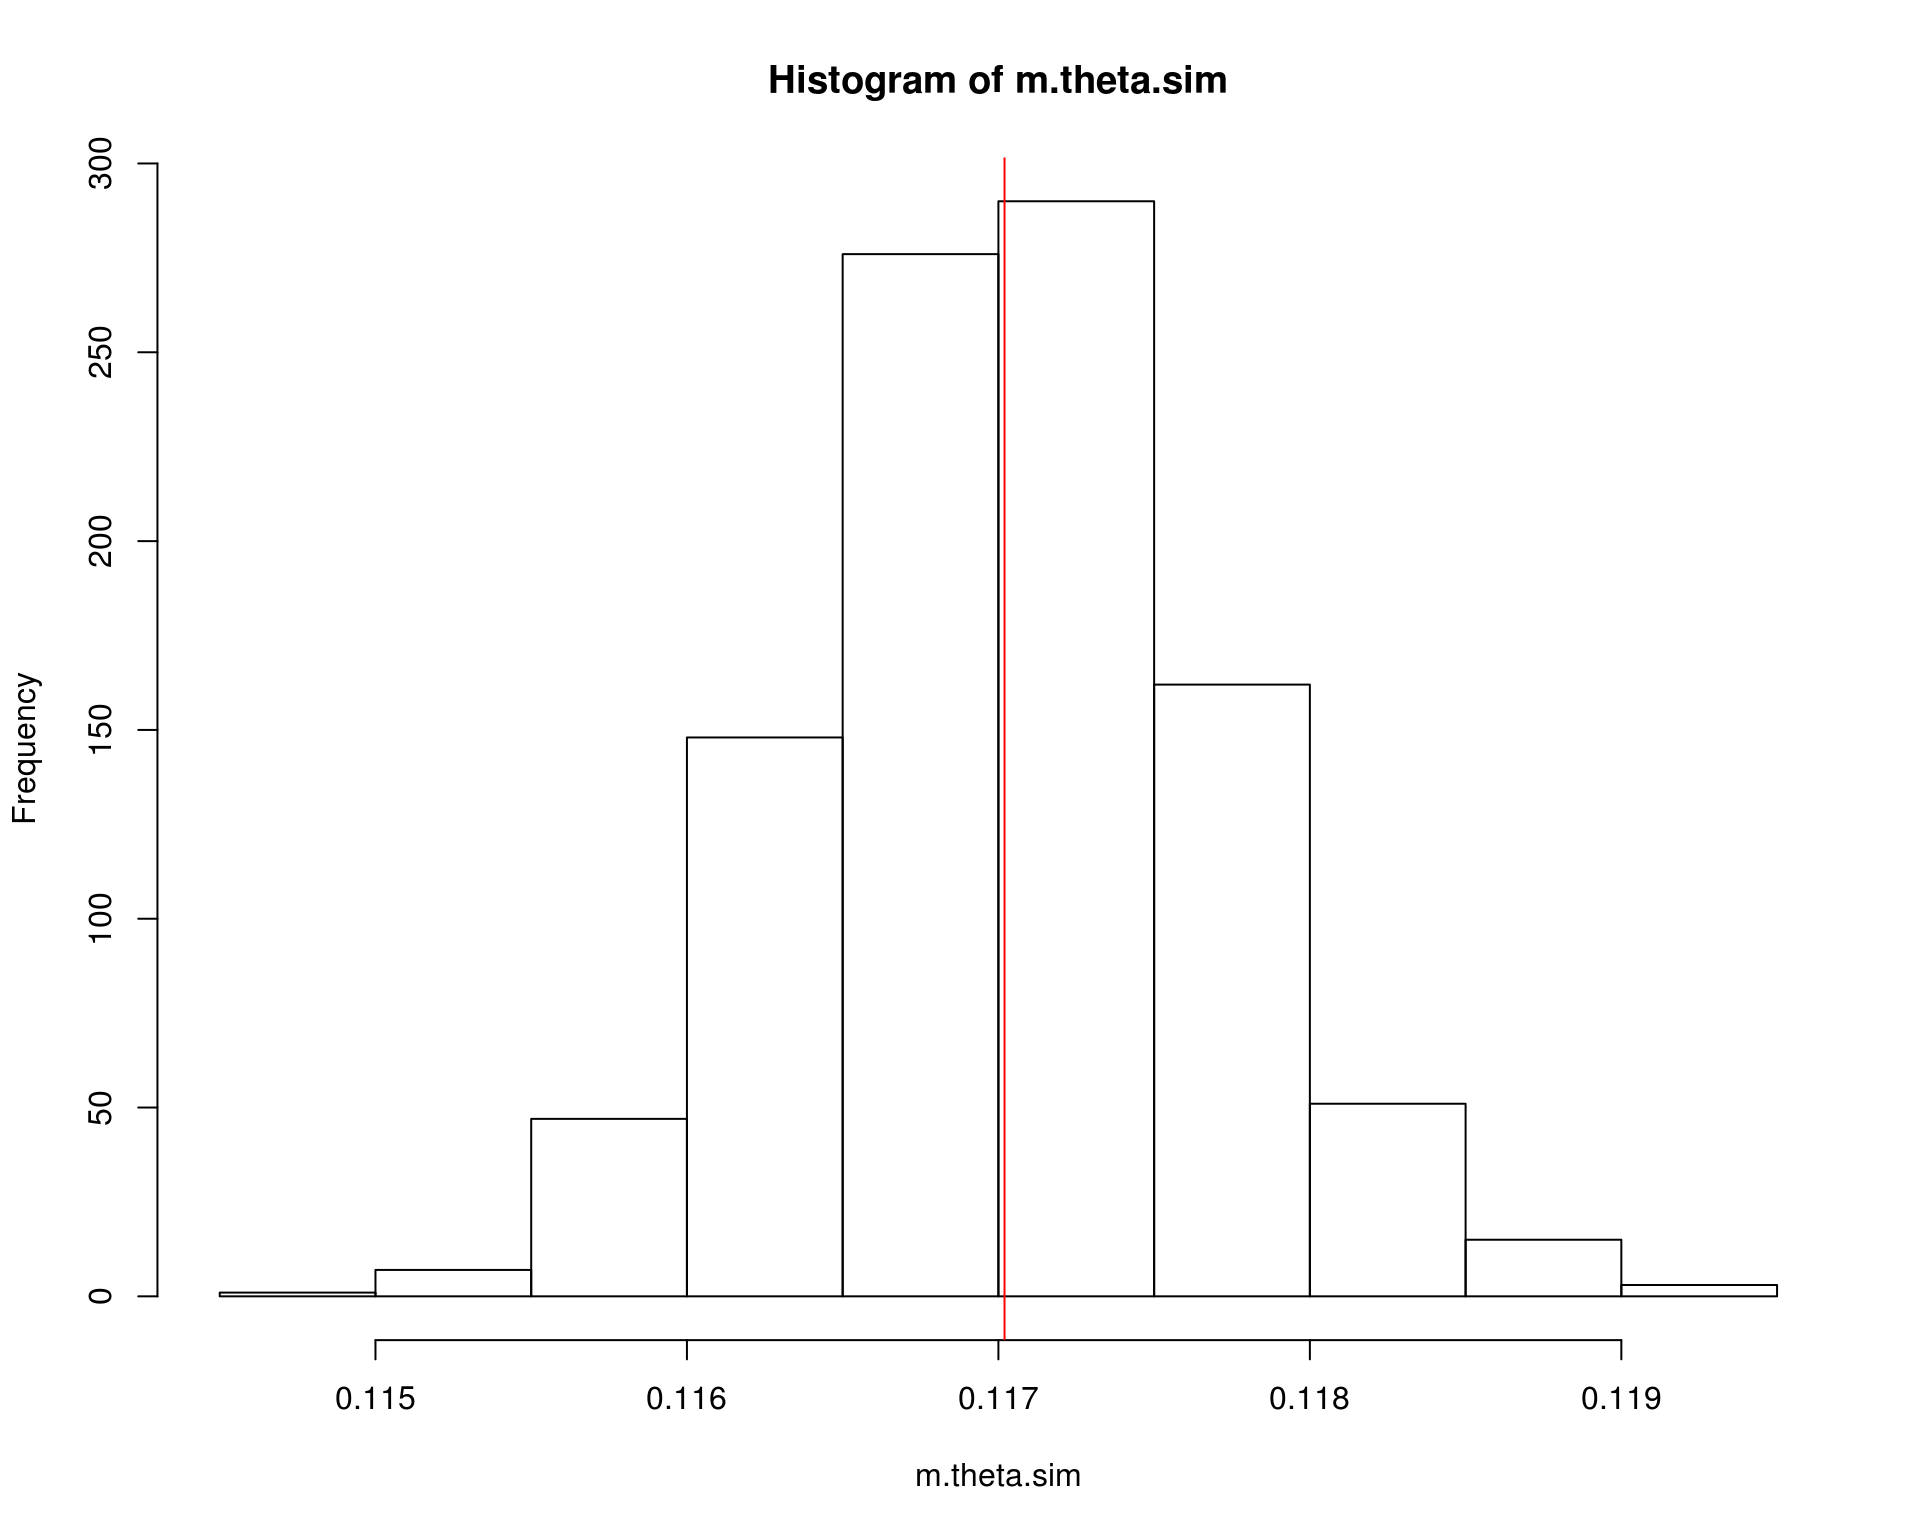
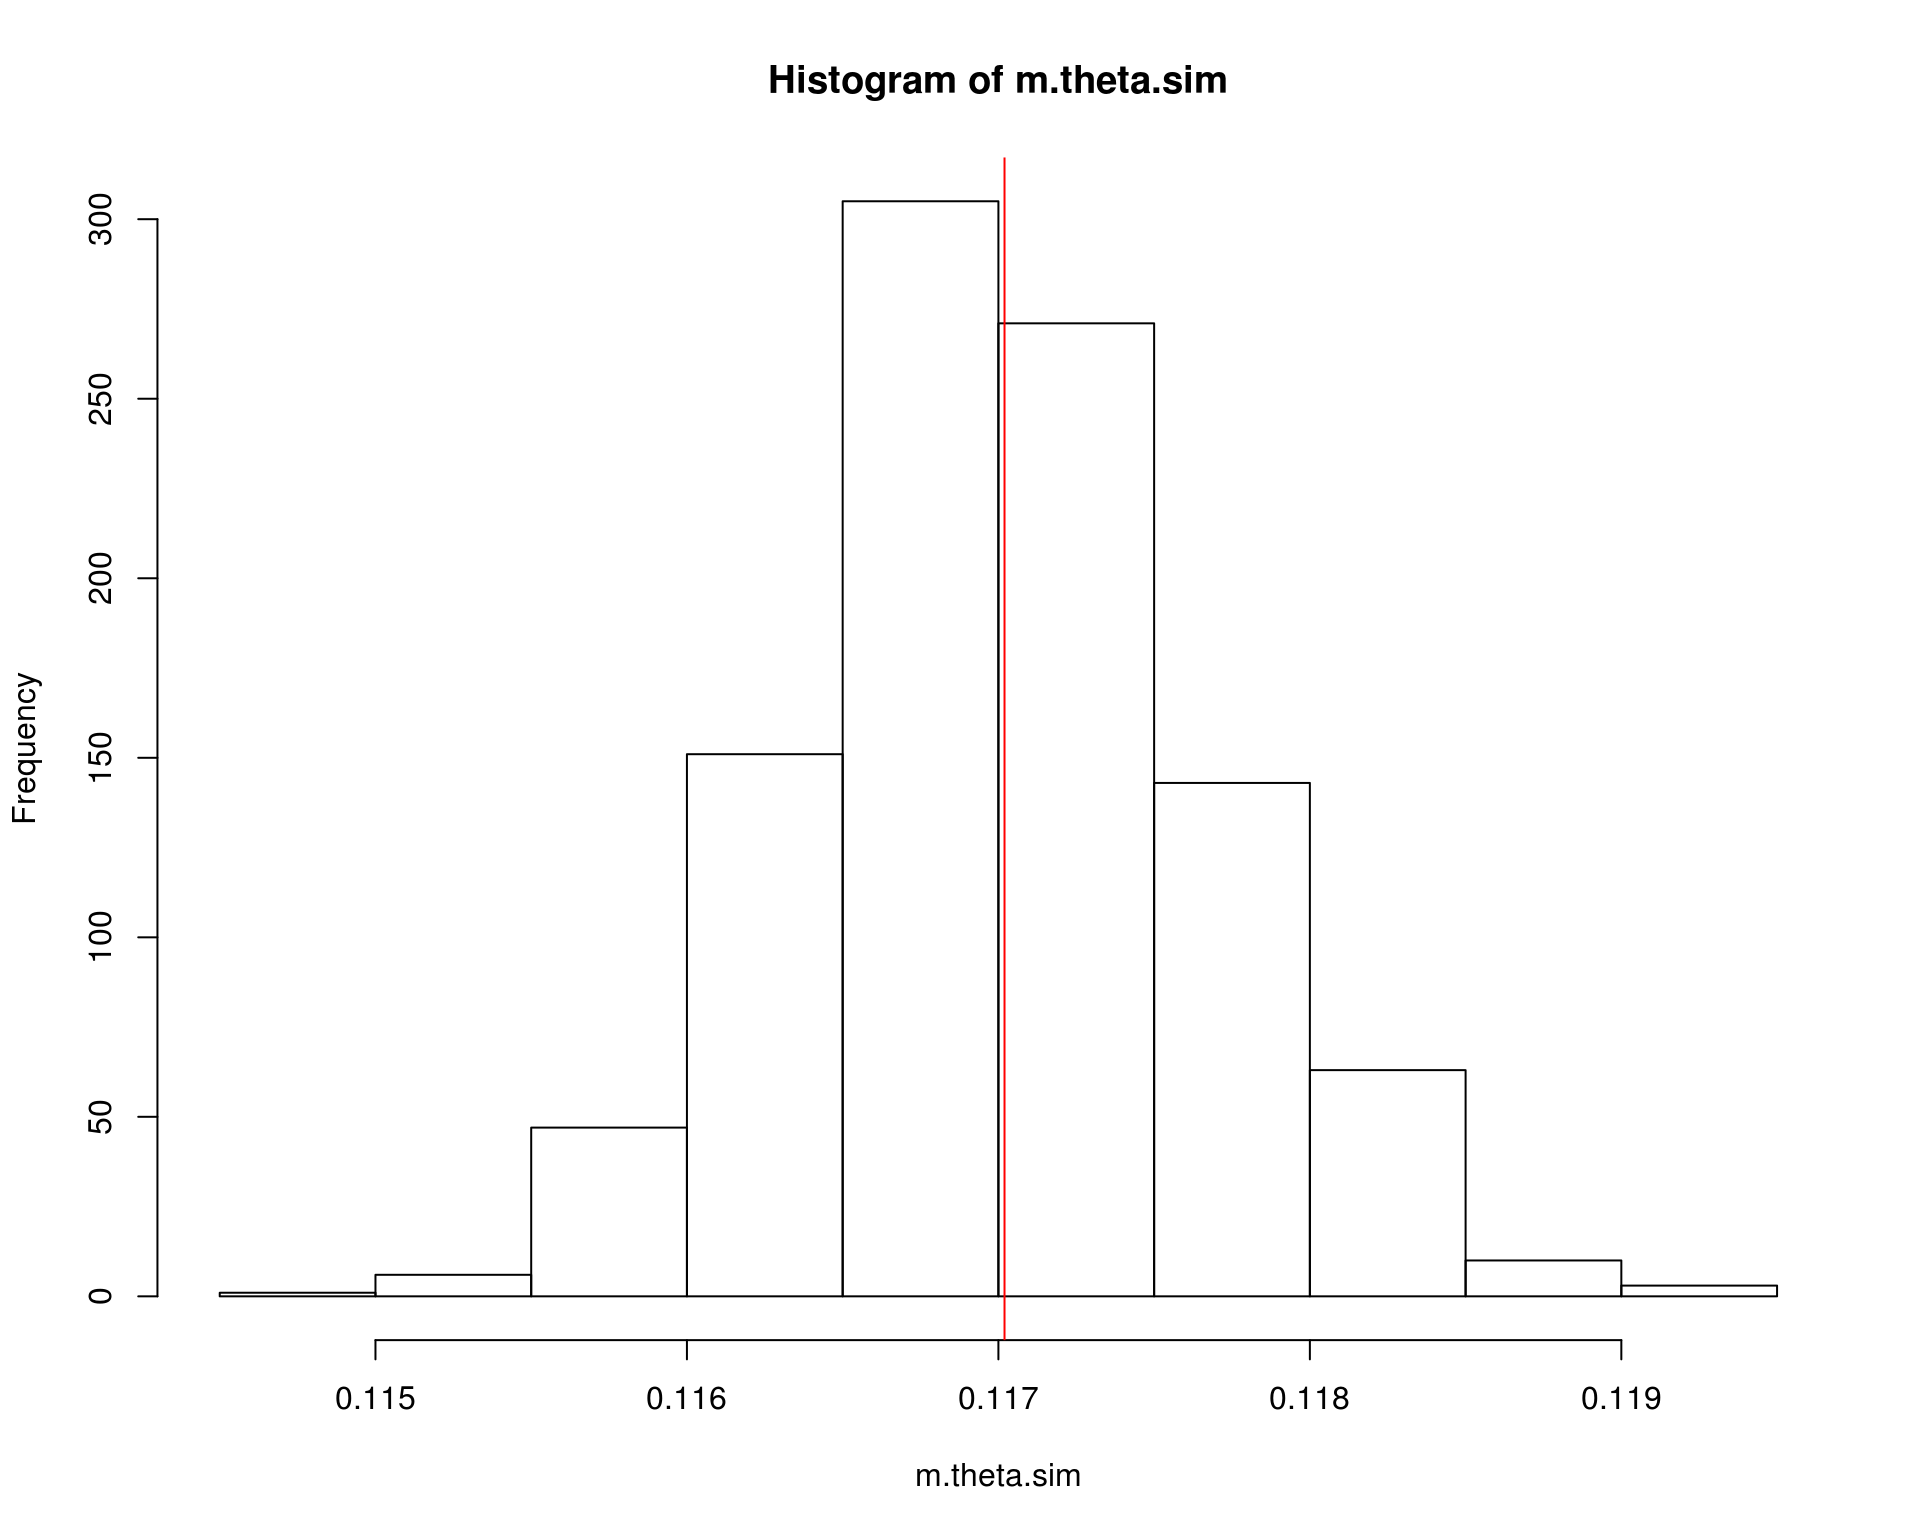
The site is alive.

diff --git a/MC_intro.html b/MC_intro.html
@@ -553,7 +553,7 @@ P(\lim_{n \to \infty} |\bar{X}_n - \mu| &lt; \epsilon) = 1
 <a class="sourceLine" id="cb1-5" title="5">theta.hat &lt;-<span class="st"> </span><span class="kw">exp</span>(<span class="op">-</span>x)</a>
 <a class="sourceLine" id="cb1-6" title="6"><span class="co">## Calcula a média</span></a>
 <a class="sourceLine" id="cb1-7" title="7">(m.theta.hat &lt;-<span class="st"> </span><span class="kw">sum</span>(theta.hat)<span class="op">/</span>m)</a>
-<a class="sourceLine" id="cb1-8" title="8"><span class="co"># [1] 0.6314137</span></a></code></pre></div>
+<a class="sourceLine" id="cb1-8" title="8"><span class="co"># [1] 0.6299018</span></a></code></pre></div>
 <p>Nesse caso, podemos obter a solução analítica e integração numérica no R para comparar as estimativas</p>
 <div class="sourceCode" id="cb2"><pre class="sourceCode r"><code class="sourceCode r"><a class="sourceLine" id="cb2-1" title="1"><span class="co">## Solução analítica</span></a>
 <a class="sourceLine" id="cb2-2" title="2">(theta &lt;-<span class="st"> </span><span class="dv">1</span> <span class="op">-</span><span class="st"> </span><span class="kw">exp</span>(<span class="op">-</span><span class="dv">1</span>))</a>
@@ -593,7 +593,7 @@ P(\lim_{n \to \infty} |\bar{X}_n - \mu| &lt; \epsilon) = 1
 <a class="sourceLine" id="cb3-6" title="6">theta.hat &lt;-<span class="st"> </span><span class="kw">exp</span>(<span class="op">-</span>x)</a>
 <a class="sourceLine" id="cb3-7" title="7"><span class="co">## Calcula a média * (b - a)</span></a>
 <a class="sourceLine" id="cb3-8" title="8">(m.theta.hat &lt;-<span class="st"> </span>(<span class="kw">sum</span>(theta.hat)<span class="op">/</span>m) <span class="op">*</span><span class="st"> </span>(b <span class="op">-</span><span class="st"> </span>a))</a>
-<a class="sourceLine" id="cb3-9" title="9"><span class="co"># [1] 0.1175212</span></a></code></pre></div>
+<a class="sourceLine" id="cb3-9" title="9"><span class="co"># [1] 0.1179183</span></a></code></pre></div>
 <p>Nesse caso, podemos obter a solução analítica e integração numérica no R para comparar as estimativas</p>
 <div class="sourceCode" id="cb4"><pre class="sourceCode r"><code class="sourceCode r"><a class="sourceLine" id="cb4-1" title="1"><span class="co">## Solução analítica</span></a>
 <a class="sourceLine" id="cb4-2" title="2">(theta &lt;-<span class="st"> </span><span class="kw">exp</span>(<span class="op">-</span><span class="dv">2</span>) <span class="op">-</span><span class="st"> </span><span class="kw">exp</span>(<span class="op">-</span><span class="dv">4</span>))</a>
@@ -614,7 +614,7 @@ P[X&gt;2] = \int_2^{\infty} e^{-x} dx
 <a class="sourceLine" id="cb5-5" title="5">theta.hat2 &lt;-<span class="st"> </span><span class="kw">exp</span>(<span class="op">-</span>x2)</a>
 <a class="sourceLine" id="cb5-6" title="6"><span class="co">## Calcula a média * (b - a)</span></a>
 <a class="sourceLine" id="cb5-7" title="7">(m.theta.hat2 &lt;-<span class="st"> </span>(<span class="kw">sum</span>(theta.hat2)<span class="op">/</span>m) <span class="op">*</span><span class="st"> </span>(<span class="fl">1e5</span> <span class="op">-</span><span class="st"> </span><span class="dv">2</span>))</a>
-<a class="sourceLine" id="cb5-8" title="8"><span class="co"># [1] 1.622695e-06</span></a>
+<a class="sourceLine" id="cb5-8" title="8"><span class="co"># [1] 1.01657e-28</span></a>
 <a class="sourceLine" id="cb5-9" title="9"><span class="co">## Solução analítica</span></a>
 <a class="sourceLine" id="cb5-10" title="10">(theta2 &lt;-<span class="st"> </span><span class="kw">exp</span>(<span class="op">-</span><span class="dv">2</span>) <span class="op">-</span><span class="st"> </span><span class="kw">exp</span>(<span class="op">-</span><span class="fl">1e5</span>))</a>
 <a class="sourceLine" id="cb5-11" title="11"><span class="co"># [1] 0.1353353</span></a>
@@ -635,17 +635,17 @@ P[X&gt;2] = \int_2^{\infty} e^{-x} dx
 \]</span></p>
 <p>Seguindo o exemplo anterior, vimos que a estimativa da integral é</p>
 <div class="sourceCode" id="cb6"><pre class="sourceCode r"><code class="sourceCode r"><a class="sourceLine" id="cb6-1" title="1">m.theta.hat</a>
-<a class="sourceLine" id="cb6-2" title="2"><span class="co"># [1] 0.1175212</span></a></code></pre></div>
+<a class="sourceLine" id="cb6-2" title="2"><span class="co"># [1] 0.1179183</span></a></code></pre></div>
 <p>Mas veja que existe uma distribuição de valores para compor esta estimativa média</p>
 <div class="sourceCode" id="cb7"><pre class="sourceCode r"><code class="sourceCode r"><a class="sourceLine" id="cb7-1" title="1"><span class="kw">hist</span>(theta.hat); <span class="kw">abline</span>(<span class="dt">v =</span> theta, <span class="dt">col =</span> <span class="dv">2</span>)</a></code></pre></div>
 <p><img src="figures/MC_intro/unnamed-chunk-9-1.png" width="80%" style="display: block; margin: auto;" /></p>
 <p>A variância relacionada ao estimador pode então ser calculada como</p>
 <div class="sourceCode" id="cb8"><pre class="sourceCode r"><code class="sourceCode r"><a class="sourceLine" id="cb8-1" title="1"><span class="co">## Variancia</span></a>
 <a class="sourceLine" id="cb8-2" title="2">(v.theta.hat &lt;-<span class="st"> </span><span class="kw">sum</span>((theta.hat <span class="op">-</span><span class="st"> </span>m.theta.hat)<span class="op">^</span><span class="dv">2</span>)<span class="op">/</span>m<span class="op">^</span><span class="dv">2</span>)</a>
-<a class="sourceLine" id="cb8-3" title="3"><span class="co"># [1] 4.529591e-07</span></a>
+<a class="sourceLine" id="cb8-3" title="3"><span class="co"># [1] 4.561051e-07</span></a>
 <a class="sourceLine" id="cb8-4" title="4"><span class="co">## Erro padrão</span></a>
 <a class="sourceLine" id="cb8-5" title="5">(se.theta.hat &lt;-<span class="st"> </span><span class="kw">sqrt</span>(v.theta.hat))</a>
-<a class="sourceLine" id="cb8-6" title="6"><span class="co"># [1] 0.0006730223</span></a></code></pre></div>
+<a class="sourceLine" id="cb8-6" title="6"><span class="co"># [1] 0.0006753555</span></a></code></pre></div>
 <p>Pelo Teorema do Limite Central, temos que</p>
 <p><span class="math display">\[
 \frac{\hat\theta - \text{E}(\hat\theta)}{\sqrt{\hat{V}(\hat\theta)}}
@@ -659,10 +659,10 @@ P[X&gt;2] = \int_2^{\infty} e^{-x} dx
 <p>Com esse resultado, podemos inclusive fornecer um intervalo de confiança associado à nossa estimativa</p>
 <div class="sourceCode" id="cb10"><pre class="sourceCode r"><code class="sourceCode r"><a class="sourceLine" id="cb10-1" title="1"><span class="co">## Media e veriancia</span></a>
 <a class="sourceLine" id="cb10-2" title="2"><span class="kw">c</span>(m.theta.hat, v.theta.hat)</a>
-<a class="sourceLine" id="cb10-3" title="3"><span class="co"># [1] 1.175212e-01 4.529591e-07</span></a>
+<a class="sourceLine" id="cb10-3" title="3"><span class="co"># [1] 1.179183e-01 4.561051e-07</span></a>
 <a class="sourceLine" id="cb10-4" title="4"><span class="co">## Intervalo de confiança (95%)</span></a>
 <a class="sourceLine" id="cb10-5" title="5"><span class="kw">c</span>(m.theta.hat <span class="op">-</span><span class="st"> </span><span class="fl">1.96</span> <span class="op">*</span><span class="st"> </span>se.theta.hat, m.theta.hat <span class="op">+</span><span class="st"> </span><span class="fl">1.96</span> <span class="op">*</span><span class="st"> </span>se.theta.hat)</a>
-<a class="sourceLine" id="cb10-6" title="6"><span class="co"># [1] 0.1162021 0.1188403</span></a></code></pre></div>
+<a class="sourceLine" id="cb10-6" title="6"><span class="co"># [1] 0.1165946 0.1192419</span></a></code></pre></div>
 <p>Veja que assintoticamente, i.e., conforme aumentamos o tamanho da amostra, o valor da integral se aproxima cada vez mais do valor verdadeiro (que nesse caso sabemos calcular analiticamente, apenas para comparação).</p>
 <div class="sourceCode" id="cb11"><pre class="sourceCode r"><code class="sourceCode r"><a class="sourceLine" id="cb11-1" title="1"><span class="co">## Simula a convergência para o verdadeiro valor conforme aumenta o</span></a>
 <a class="sourceLine" id="cb11-2" title="2"><span class="co">## tamanho da amostra</span></a>

diff --git a/notas.html b/notas.html
@@ -307,7 +307,6 @@ $(document).ready(function () {
 <thead>
 <tr class="header">
 <th align="left">Matrícula</th>
-<th align="left">Nome</th>
 <th align="right">A1</th>
 <th align="right">A2</th>
 <th align="right">P1</th>
@@ -315,13 +314,12 @@ $(document).ready(function () {
 <th align="right">Apres</th>
 <th align="right">Trab</th>
 <th align="right">Parcial</th>
-<th align="left">X</th>
+<th align="left">Situação</th>
 </tr>
 </thead>
 <tbody>
 <tr class="odd">
 <td align="left">GRR20137526</td>
-<td align="left">ALEXANDRE MORALES DIAZ</td>
 <td align="right">NA</td>
 <td align="right">NA</td>
 <td align="right">NA</td>
@@ -333,7 +331,6 @@ $(document).ready(function () {
 </tr>
 <tr class="even">
 <td align="left">GRR20137583</td>
-<td align="left">NATHALIE DO AMARAL PORTO MARTINS</td>
 <td align="right">NA</td>
 <td align="right">NA</td>
 <td align="right">NA</td>
@@ -345,7 +342,6 @@ $(document).ready(function () {
 </tr>
 <tr class="odd">
 <td align="left">GRR20149092</td>
-<td align="left">JOAO MATHEUS SLUJALA KRUGER TABORDA HNEDA</td>
 <td align="right">12</td>
 <td align="right">NA</td>
 <td align="right">NA</td>
@@ -357,7 +353,6 @@ $(document).ready(function () {
 </tr>
 <tr class="even">
 <td align="left">GRR20149112</td>
-<td align="left">NATHAN MACHADO OLSCHOWSKY</td>
 <td align="right">25</td>
 <td align="right">NA</td>
 <td align="right">NA</td>
@@ -369,7 +364,6 @@ $(document).ready(function () {
 </tr>
 <tr class="odd">
 <td align="left">GRR20149163</td>
-<td align="left">BRENDHA RODRIGUES DE LIMA</td>
 <td align="right">10</td>
 <td align="right">10</td>
 <td align="right">12</td>
@@ -381,7 +375,6 @@ $(document).ready(function () {
 </tr>
 <tr class="even">
 <td align="left">GRR20159111</td>
-<td align="left">MAIKE WILLIAN MARTINS DOS SANTOS</td>
 <td align="right">5</td>
 <td align="right">NA</td>
 <td align="right">NA</td>
@@ -393,7 +386,6 @@ $(document).ready(function () {
 </tr>
 <tr class="odd">
 <td align="left">GRR20159136</td>
-<td align="left">LUCAS LABHARDT LISBOA</td>
 <td align="right">NA</td>
 <td align="right">NA</td>
 <td align="right">NA</td>
@@ -405,7 +397,6 @@ $(document).ready(function () {
 </tr>
 <tr class="even">
 <td align="left">GRR20159211</td>
-<td align="left">HERMANN MOGIZ DELGADO</td>
 <td align="right">50</td>
 <td align="right">90</td>
 <td align="right">57</td>
@@ -417,7 +408,6 @@ $(document).ready(function () {
 </tr>
 <tr class="odd">
 <td align="left">GRR20159231</td>
-<td align="left">THAYS COSTA E SILVA DE SOUZA</td>
 <td align="right">25</td>
 <td align="right">30</td>
 <td align="right">17</td>
@@ -429,7 +419,6 @@ $(document).ready(function () {
 </tr>
 <tr class="even">
 <td align="left">GRR20159695</td>
-<td align="left">ALTAMIRO ANTONIO BASIEWICS</td>
 <td align="right">NA</td>
 <td align="right">NA</td>
 <td align="right">NA</td>
@@ -441,7 +430,6 @@ $(document).ready(function () {
 </tr>
 <tr class="odd">
 <td align="left">GRR20160204</td>
-<td align="left">GEAN PAULO SOARES MACHADO</td>
 <td align="right">5</td>
 <td align="right">NA</td>
 <td align="right">NA</td>
@@ -453,7 +441,6 @@ $(document).ready(function () {
 </tr>
 <tr class="even">
 <td align="left">GRR20160206</td>
-<td align="left">RAFAEL BUTTINI SALVIATO</td>
 <td align="right">96</td>
 <td align="right">70</td>
 <td align="right">36</td>
@@ -465,7 +452,6 @@ $(document).ready(function () {
 </tr>
 <tr class="odd">
 <td align="left">GRR20160215</td>
-<td align="left">GUSTAVO SCHILLING SCHUTT</td>
 <td align="right">83</td>
 <td align="right">20</td>
 <td align="right">22</td>
@@ -477,7 +463,6 @@ $(document).ready(function () {
 </tr>
 <tr class="even">
 <td align="left">GRR20160217</td>
-<td align="left">RAFAEL MORCIANI ALVES DA SILVA</td>
 <td align="right">50</td>
 <td align="right">69</td>
 <td align="right">43</td>
@@ -489,7 +474,6 @@ $(document).ready(function () {
 </tr>
 <tr class="odd">
 <td align="left">GRR20160219</td>
-<td align="left">LUAN DEMARCO FIORENTIN</td>
 <td align="right">100</td>
 <td align="right">67</td>
 <td align="right">76</td>
@@ -501,7 +485,6 @@ $(document).ready(function () {
 </tr>
 <tr class="even">
 <td align="left">GRR20160221</td>
-<td align="left">LETICIA VIEIRA DA ROCHA</td>
 <td align="right">NA</td>
 <td align="right">NA</td>
 <td align="right">NA</td>
@@ -513,7 +496,6 @@ $(document).ready(function () {
 </tr>
 <tr class="odd">
 <td align="left">GRR20160230</td>
-<td align="left">IGOR HOLTRUP HORROCKS</td>
 <td align="right">95</td>
 <td align="right">25</td>
 <td align="right">58</td>
@@ -525,7 +507,6 @@ $(document).ready(function () {
 </tr>
 <tr class="even">
 <td align="left">GRR20160239</td>
-<td align="left">DENNIS SANTOS LEAO</td>
 <td align="right">45</td>
 <td align="right">52</td>
 <td align="right">19</td>
@@ -537,7 +518,6 @@ $(document).ready(function () {
 </tr>
 <tr class="odd">
 <td align="left">GRR20160304</td>
-<td align="left">ALLAN TETSUYA MORINAGA</td>
 <td align="right">NA</td>
 <td align="right">NA</td>
 <td align="right">NA</td>
@@ -549,7 +529,6 @@ $(document).ready(function () {
 </tr>
 <tr class="even">
 <td align="left">GRR20164019</td>
-<td align="left">HURIEL RUAN REICHEL</td>
 <td align="right">48</td>
 <td align="right">NA</td>
 <td align="right">NA</td>
@@ -561,7 +540,6 @@ $(document).ready(function () {
 </tr>
 <tr class="odd">
 <td align="left">GRR20165742</td>
-<td align="left">THIAGO LEDUR HOEFLICH</td>
 <td align="right">10</td>
 <td align="right">NA</td>
 <td align="right">NA</td>
@@ -573,7 +551,6 @@ $(document).ready(function () {
 </tr>
 <tr class="even">
 <td align="left">GRR20176432</td>
-<td align="left">MATEUS GEMELLI RAMOS</td>
 <td align="right">17</td>
 <td align="right">NA</td>
 <td align="right">NA</td>
@@ -585,7 +562,6 @@ $(document).ready(function () {
 </tr>
 <tr class="odd">
 <td align="left">GRR20185596</td>
-<td align="left">RODRIGO PORTANTIOLO WAGNER</td>
 <td align="right">NA</td>
 <td align="right">NA</td>
 <td align="right">NA</td>
@@ -597,7 +573,6 @@ $(document).ready(function () {
 </tr>
 <tr class="even">
 <td align="left">ISO20130219</td>
-<td align="left">ANDRYAS WAURZENCZAK</td>
 <td align="right">NA</td>
 <td align="right">NA</td>
 <td align="right">NA</td>
